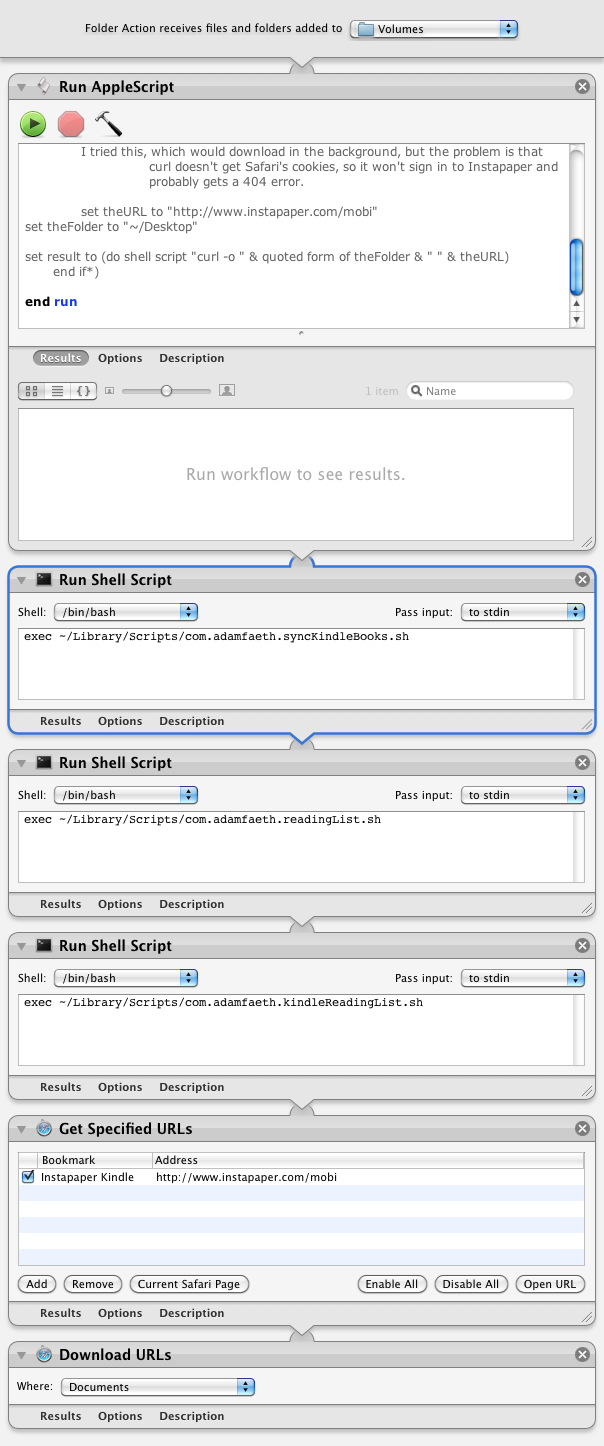
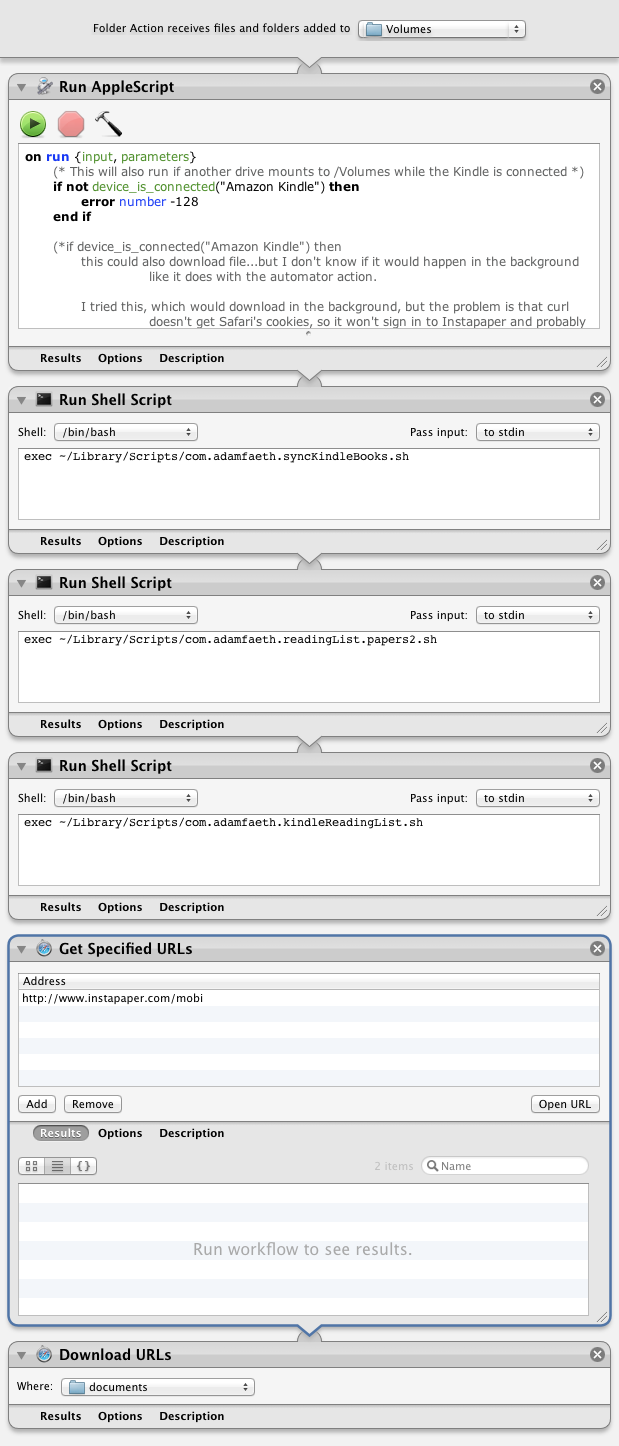
Removed automator workflows from makefile install, it's easier to install them by double-clicking.

diff --git a/README.md b/README.md
@@ -68,10 +68,8 @@ The Kindle Scripts work with either version of the above script.
 
     make install-kindle
 
-I also created an Automator workflow which you can use to right click on any folder in the finder to start a sync between your Papers reading list and Dropbox.
-
-    make install-service
-    
+There are Automator workflows included for calling the scripts when the Kindle gets connected and calling the reading list script from the OS X services menu. The simplest way to install these actions is to open the workflows. Automator will ask if you want to install them as a folder action (on the /Volumes/Kindle folder) and a service respectively. 
+  
 To test if the scripts are working correctly, you can have launchd kick off the script immediately. Errors will be reported in the console, rather than in the terminal. 
 
     launchctl start com.adamfaeth.readinglist
